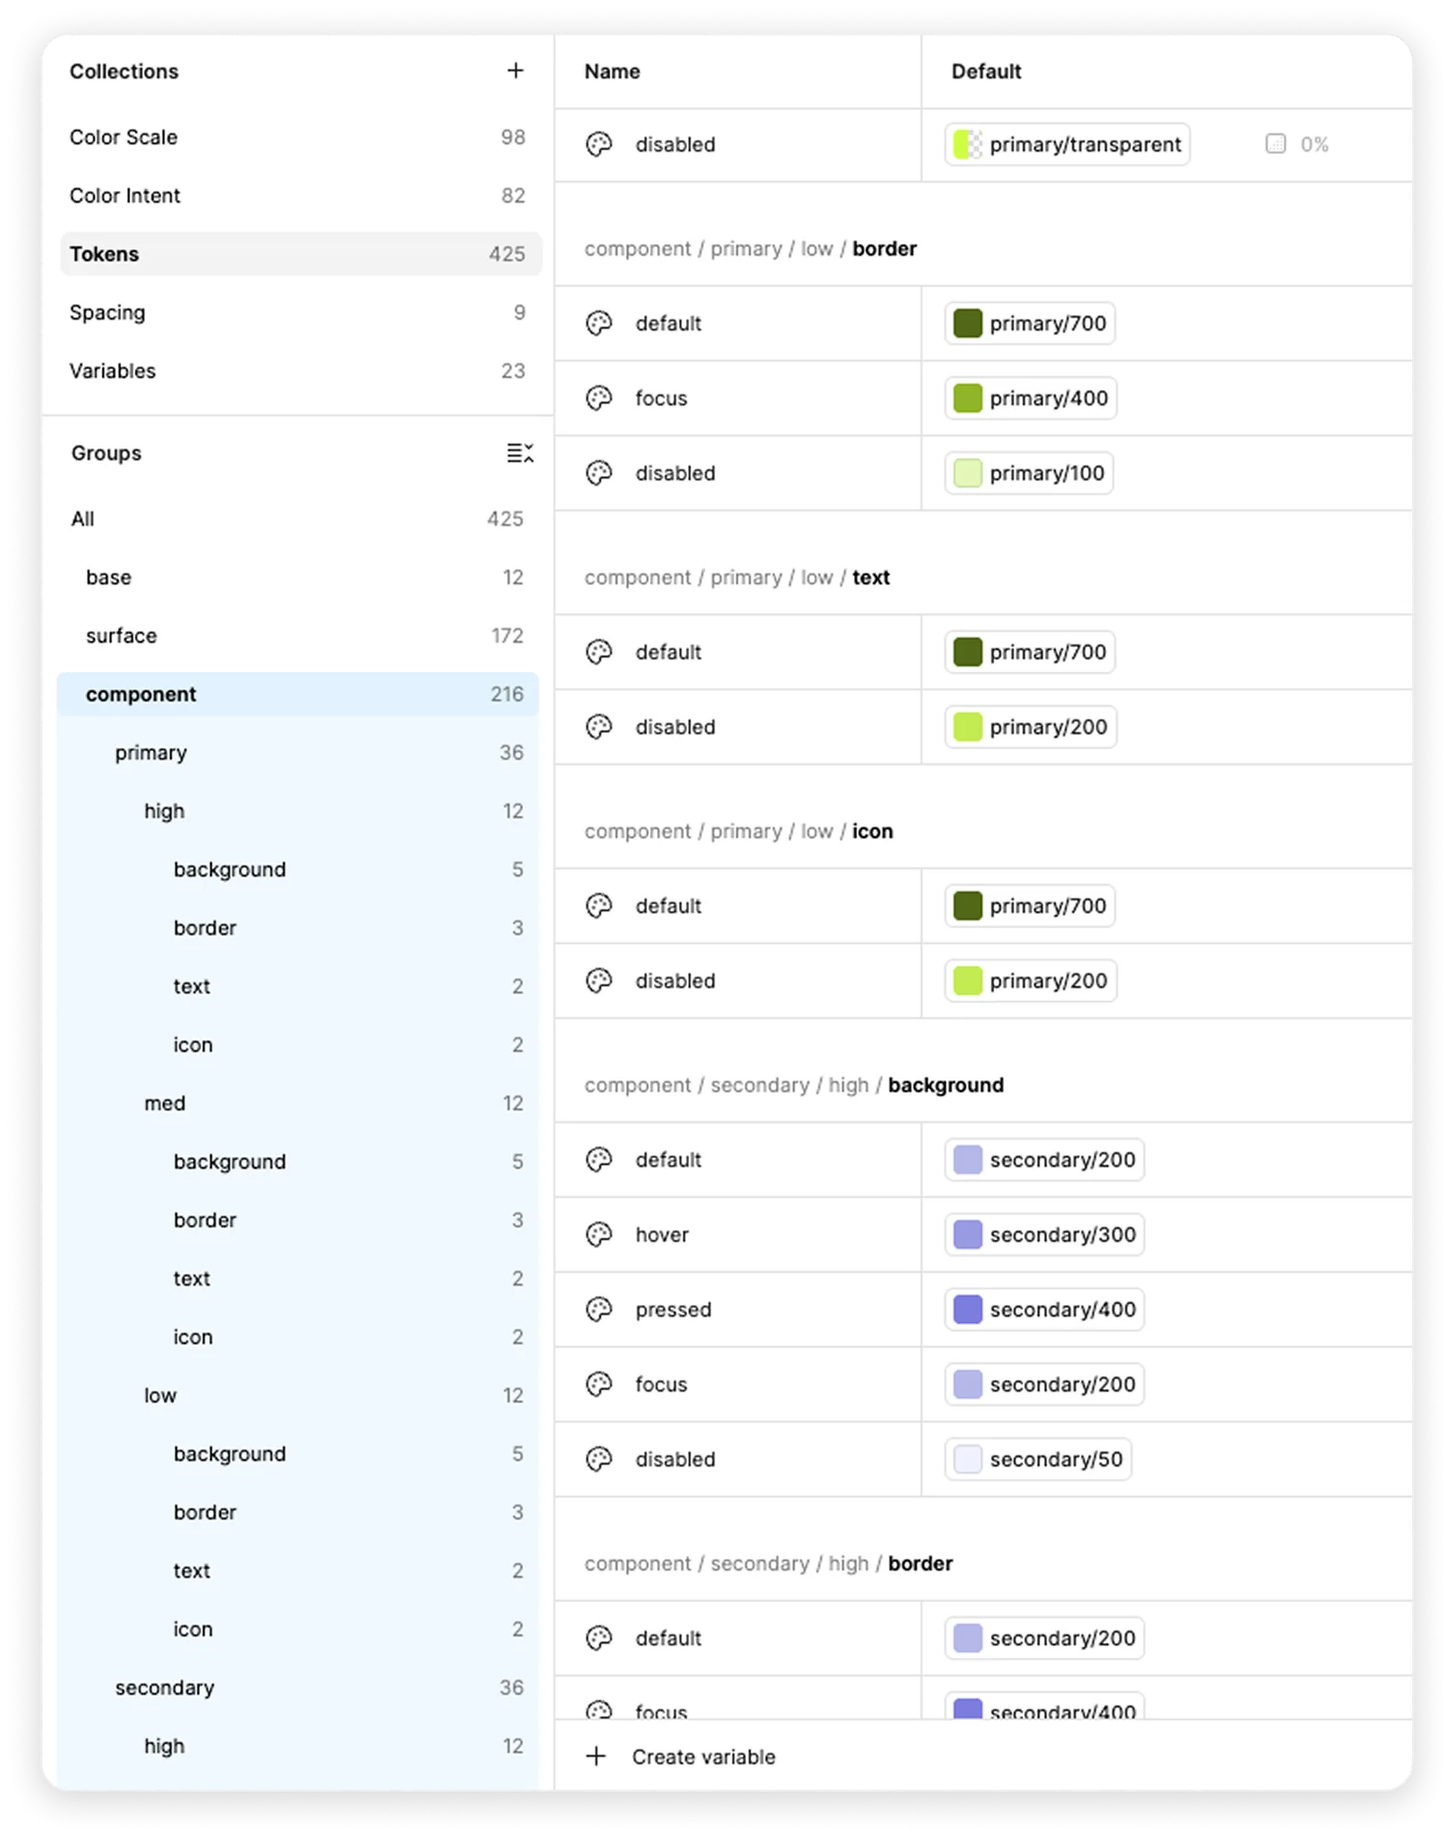
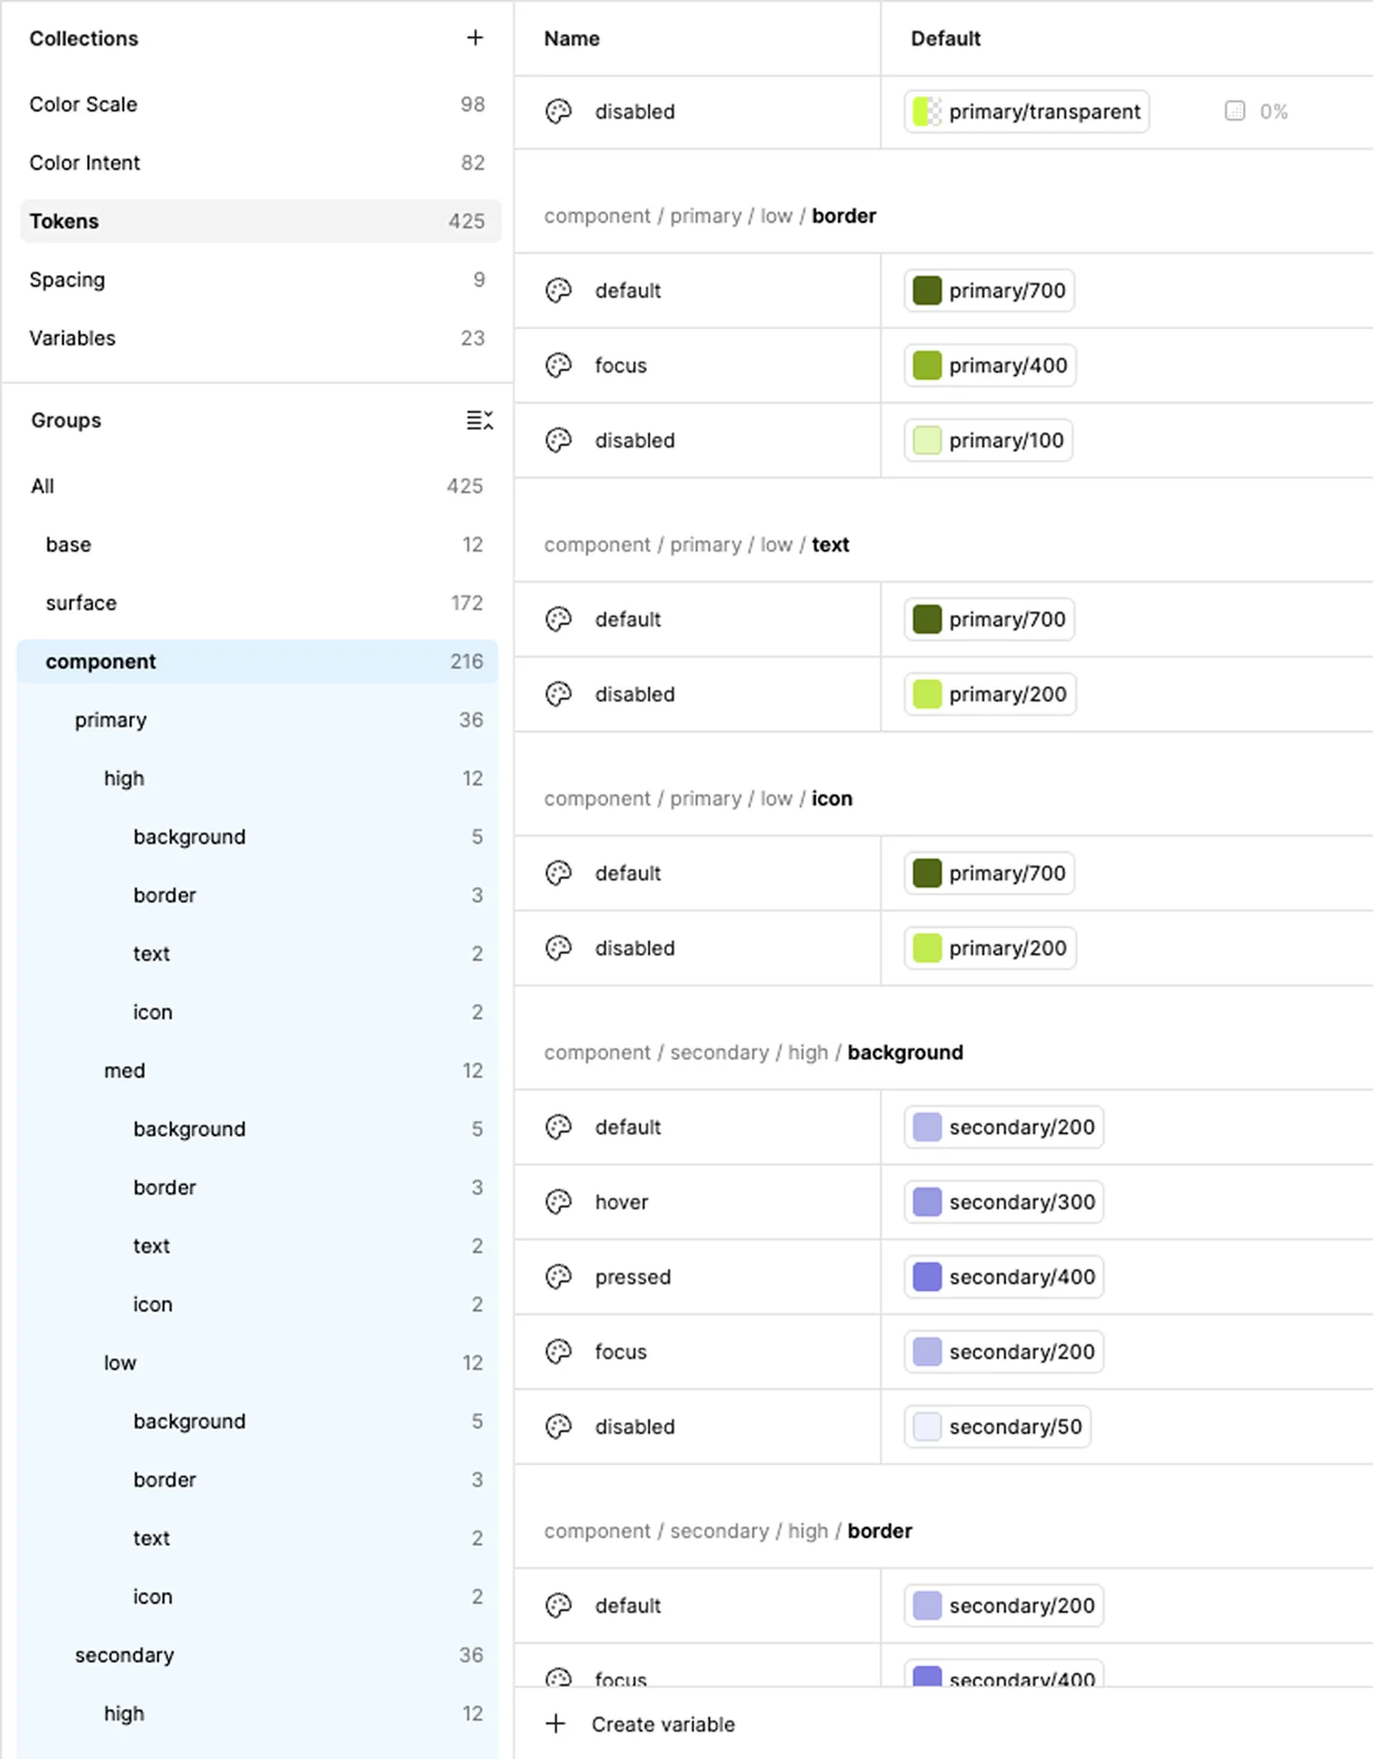
Case studies: zoom cursor, videos open in the overlay, new Guardrail ship image
The cursor chip turns into a magnifier over clickable media. Videos open
in the same overlay as images, uncropped and from the same playhead,
instead of native fullscreen. Guardrail's updated Ship & Collaboration
image is framed again.

diff --git a/case-study.js b/case-study.js
@@ -7,7 +7,130 @@
      hides the OS cursor only on pages that include .cursor-chip). No dot
      canvas here, so X/Y are page coordinates measured from the content's
      top-left, below the 46px nav; Y keeps counting as the page scrolls. */
+  /* Lightbox: images and videos both open here. Videos also land here
+     instead of native fullscreen -- Chromium's fullscreen button is hidden
+     (controlslist), and any other browser's fullscreen request is caught
+     below and redirected. */
+  var overlay = document.createElement('div');
+  overlay.className = 'cs-lightbox';
+  overlay.innerHTML = '<button class="cs-lightbox-close" type="button" aria-label="Close">&times;</button><img class="cs-lightbox-img" alt=""><video class="cs-lightbox-video" controls playsinline controlslist="nofullscreen" disablepictureinpicture></video>';
+  document.body.appendChild(overlay);
+  var lbImg = overlay.querySelector('.cs-lightbox-img');
+  var lbVideo = overlay.querySelector('.cs-lightbox-video');
+  var closeBtn = overlay.querySelector('.cs-lightbox-close');
+  var zoomed = false;
+  var sourceVideo = null;   // the inline video the overlay is playing, if any
+
+  function showOverlay(){
+    overlay.classList.add('is-open');
+    document.body.style.overflow = 'hidden';
+  }
+  function openLightbox(src, alt){
+    overlay.classList.remove('is-video');
+    lbImg.src = src;
+    lbImg.alt = alt || '';
+    zoomed = false;
+    lbImg.classList.remove('is-zoomed');
+    showOverlay();
+  }
+  function openVideo(v){
+    if (overlay.classList.contains('is-open') && sourceVideo === v) return;
+    sourceVideo = v;
+    var t = v.currentTime;
+    v.pause();
+    overlay.classList.add('is-video');
+    lbVideo.src = v.currentSrc || v.src;
+    var start = function(){
+      lbVideo.currentTime = t;
+      var p = lbVideo.play();
+      if (p && p.catch) p.catch(function(){});
+    };
+    if (lbVideo.readyState >= 1) start(); else lbVideo.addEventListener('loadedmetadata', start, {once:true});
+    showOverlay();
+  }
+  function closeLightbox(){
+    overlay.classList.remove('is-open');
+    document.body.style.overflow = '';
+    zoomed = false;
+    lbImg.classList.remove('is-zoomed');
+    if (sourceVideo){
+      // hand the playhead back so the inline video resumes where you left off
+      if (lbVideo.readyState >= 1) sourceVideo.currentTime = lbVideo.currentTime;
+      lbVideo.pause();
+      lbVideo.removeAttribute('src');
+      lbVideo.load();
+      sourceVideo = null;
+    }
+    overlay.classList.remove('is-video');
+  }
+
+  document.querySelectorAll('.cs-asset img').forEach(function(el){
+    el.addEventListener('click', function(){
+      openLightbox(el.currentSrc || el.src, el.alt);
+    });
+  });
+
+  // a click on a video's picture opens the overlay; its control bar still
+  // works inline (native controls report clicks on the video element too)
+  var CONTROL_BAR = 48;
+  var onVideoPicture = function(v, y){ return y < v.getBoundingClientRect().bottom - CONTROL_BAR; };
+  document.querySelectorAll('.cs-asset video').forEach(function(v){
+    v.setAttribute('controlslist', 'nofullscreen');
+    v.setAttribute('disablepictureinpicture', '');
+    v.addEventListener('click', function(e){
+      if (!onVideoPicture(v, e.clientY)) return;
+      e.preventDefault();
+      openVideo(v);
+    });
+    // iOS Safari's own video fullscreen
+    v.addEventListener('webkitbeginfullscreen', function(){
+      if (v.webkitExitFullscreen) v.webkitExitFullscreen();
+      openVideo(v);
+    });
+  });
+  var redirectFullscreen = function(){
+    var el = document.fullscreenElement || document.webkitFullscreenElement;
+    if (!el || el.tagName !== 'VIDEO') return;
+    if (document.exitFullscreen) document.exitFullscreen().catch(function(){});
+    else if (document.webkitExitFullscreen) document.webkitExitFullscreen();
+    if (el !== lbVideo) openVideo(el);
+  };
+  document.addEventListener('fullscreenchange', redirectFullscreen);
+  document.addEventListener('webkitfullscreenchange', redirectFullscreen);
+
+  lbImg.addEventListener('click', function(e){
+    e.stopPropagation();
+    zoomed = !zoomed;
+    lbImg.classList.toggle('is-zoomed', zoomed);
+    setCursorMode(e.target, e.clientY);
+  });
+  overlay.addEventListener('click', function(e){
+    if (e.target === overlay) closeLightbox();
+  });
+  closeBtn.addEventListener('click', closeLightbox);
+  document.addEventListener('keydown', function(e){
+    if (e.key === 'Escape' && overlay.classList.contains('is-open')) closeLightbox();
+  });
+
+  /* The homepage's Figma-style cursor chip (styled in styles.css, which
+     hides the OS cursor only on pages that include .cursor-chip). No dot
+     canvas here, so X/Y are page coordinates measured from the content's
+     top-left, below the 46px nav; Y keeps counting as the page scrolls.
+     Over media it becomes a magnifier (zoom-out on a zoomed lightbox image). */
   var chip = document.getElementById('cursorChip');
+  function setCursorMode(target, y){
+    if (!chip) return;
+    var mode = '';
+    if (target.closest('.cs-lightbox-img')) mode = zoomed ? 'out' : 'in';
+    else {
+      var asset = target.closest('.cs-asset');
+      if (asset){
+        var v = asset.querySelector('video');
+        if (!v || onVideoPicture(v, y)) mode = 'in';
+      }
+    }
+    if (chip.dataset.zoom !== mode) chip.dataset.zoom = mode;
+  }
   if (chip && matchMedia('(hover:hover) and (pointer:fine)').matches){
     var chipX = document.getElementById('cursorX');
     var chipY = document.getElementById('cursorY');
@@ -21,6 +144,7 @@
       if (e.pointerType === 'touch') return;
       lastX = e.clientX; lastY = e.clientY;
       paintChip();
+      setCursorMode(e.target, e.clientY);
       chip.classList.add('is-visible');
     }, {passive:true});
     window.addEventListener('scroll', function(){ if (lastX !== null) paintChip(); }, {passive:true});
@@ -31,48 +155,6 @@
     }, {passive:true});
     window.addEventListener('blur', hideChip);
   }
-
-  var overlay = document.createElement('div');
-  overlay.className = 'cs-lightbox';
-  overlay.innerHTML = '<button class="cs-lightbox-close" type="button" aria-label="Close">&times;</button><img class="cs-lightbox-img" alt="">';
-  document.body.appendChild(overlay);
-  var lbImg = overlay.querySelector('.cs-lightbox-img');
-  var closeBtn = overlay.querySelector('.cs-lightbox-close');
-  var zoomed = false;
-
-  function openLightbox(src, alt){
-    lbImg.src = src;
-    lbImg.alt = alt || '';
-    zoomed = false;
-    lbImg.classList.remove('is-zoomed');
-    overlay.classList.add('is-open');
-    document.body.style.overflow = 'hidden';
-  }
-  function closeLightbox(){
-    overlay.classList.remove('is-open');
-    document.body.style.overflow = '';
-    zoomed = false;
-    lbImg.classList.remove('is-zoomed');
-  }
-
-  document.querySelectorAll('.cs-asset img').forEach(function(el){
-    el.addEventListener('click', function(){
-      openLightbox(el.currentSrc || el.src, el.alt);
-    });
-  });
-
-  lbImg.addEventListener('click', function(e){
-    e.stopPropagation();
-    zoomed = !zoomed;
-    lbImg.classList.toggle('is-zoomed', zoomed);
-  });
-  overlay.addEventListener('click', function(e){
-    if (e.target === overlay) closeLightbox();
-  });
-  closeBtn.addEventListener('click', closeLightbox);
-  document.addEventListener('keydown', function(e){
-    if (e.key === 'Escape' && overlay.classList.contains('is-open')) closeLightbox();
-  });
 
   /* Image switches: a [data-switch] block holds Button Group buttons
      (data-key/data-value) and figures tagged data-when="key=value ...";

diff --git a/case-studies/guardrail-system/index.html b/case-studies/guardrail-system/index.html
@@ -12,12 +12,13 @@
 <link rel="preconnect" href="https://fonts.gstatic.com" crossorigin>
 <link rel="stylesheet" href="https://fonts.googleapis.com/css2?family=Geist:wght@300..700&family=Geist+Mono:wght@400;500;700&family=Geist+Pixel&display=swap">
 <link rel="stylesheet" href="../../styles.css">
-<link rel="stylesheet" href="../../case-study.css?v=55c9a99c">
+<link rel="stylesheet" href="../../case-study.css?v=9255e5ad">
 </head>
 <body>
 
 <div class="cursor-chip" id="cursorChip" aria-hidden="true">
-  <svg viewBox="-1 -1 17 22" width="17" height="22"><path d="M0 0 L0 20 L5.5 15.5 L14.5 15.5 Z"/></svg>
+  <svg class="cursor-arrow" viewBox="-1 -1 17 22" width="17" height="22"><path d="M0 0 L0 20 L5.5 15.5 L14.5 15.5 Z"/></svg>
+  <svg class="cursor-zoom" viewBox="0 0 26 26" width="26" height="26"><line class="cz-handle-edge" x1="14.5" y1="14.5" x2="21" y2="21"/><line class="cz-handle" x1="14.5" y1="14.5" x2="21" y2="21"/><circle class="cz-lens" cx="9" cy="9" r="7.5"/><line class="cz-mark" x1="5.5" y1="9" x2="12.5" y2="9"/><line class="cz-mark cz-plus" x1="9" y1="5.5" x2="9" y2="12.5"/></svg>
   <span class="cursor-coords" id="cursorCoords">
     <span id="cursorX">X: 0</span>
     <span id="cursorY">Y: 0</span>
@@ -290,7 +291,7 @@
   <section class="cs-section" id="ship">
     <div class="cs-section-head"><h2>Ship &amp; Collaboration</h2></div>
     <div class="cs-row">
-      <figure class="cs-figure"><div class="cs-asset is-bare"><img src="Assets/web/06-1.webp" width="1592" height="2014" alt="" loading="lazy"></div><figcaption class="cs-caption">Example of tokens in Figma and in code</figcaption></figure>
+      <figure class="cs-figure"><div class="cs-asset"><img src="Assets/web/06-1.webp" width="1504" height="1926" alt="" loading="lazy"></div><figcaption class="cs-caption">Example of tokens in Figma and in code</figcaption></figure>
       <div class="cs-text">
         <p>Guardrail's front-end developer and I defined the token taxonomy and naming together. A design library and codebase that need a translation layer is where the system comes apart. One vocabulary meant nothing to reconcile later.</p>
         <p>The point wasn’t a cleaner handoff. It was that engineering could stop checking: no single-use tokens to lose, no verifying whether a value was right.</p>
@@ -369,6 +370,6 @@
 </footer>
 
 <script src="../../nav.js"></script>
-<script src="../../case-study.js?v=14482214"></script>
+<script src="../../case-study.js?v=5fc04ec8"></script>
 </body>
 </html>

diff --git a/case-study.css b/case-study.css
@@ -408,6 +408,20 @@
   .cs-footer .cs-foot-link{grid-area:link;justify-self:end}
 }
 
+/* ---------- cursor chip: magnifier over media ---------- */
+/* case-study.js sets data-zoom="in"/"out" on the chip; the arrow swaps for
+   a magnifier in the chip's own colours, lens centred on the pointer */
+.cursor-chip .cursor-zoom{display:none;position:absolute;left:-9px;top:-9px;overflow:visible}
+.cursor-chip[data-zoom="in"] .cursor-arrow,.cursor-chip[data-zoom="out"] .cursor-arrow{display:none}
+.cursor-chip[data-zoom="in"] .cursor-zoom,.cursor-chip[data-zoom="out"] .cursor-zoom{display:block}
+.cursor-chip[data-zoom="out"] .cz-plus{display:none}
+.cursor-chip[data-zoom="in"] .cursor-coords,.cursor-chip[data-zoom="out"] .cursor-coords{left:18px;top:18px}
+.cursor-zoom line,.cursor-zoom circle{fill:none;stroke-linecap:round}
+.cursor-zoom .cz-handle-edge{stroke:#FFFFFF;stroke-width:5.6}
+.cursor-zoom .cz-handle{stroke:var(--tag-blue);stroke-width:3}
+.cursor-zoom .cz-lens{fill:var(--tag-blue);stroke:#FFFFFF;stroke-width:1.6}
+.cursor-zoom .cz-mark{stroke:#FFFFFF;stroke-width:1.8}
+
 /* ---------- lightbox ---------- */
 .cs-lightbox{
   position:fixed;inset:0;background:rgba(0,0,0,.88);
@@ -421,6 +435,10 @@
   cursor:zoom-in;transition:transform .2s ease;
 }
 .cs-lightbox-img.is-zoomed{cursor:zoom-out;transform:scale(1.8)}
+.cs-lightbox-video{display:none;max-width:100%;max-height:100%;background:#000}
+.cs-lightbox.is-video .cs-lightbox-img{display:none}
+.cs-lightbox.is-video .cs-lightbox-video{display:block}
+.cs-asset video{cursor:zoom-in}
 .cs-lightbox-close{
   position:fixed;top:20px;right:24px;
   background:none;border:none;color:#fff;font-size:32px;line-height:1;

diff --git a/case-studies/masking-in-boards/index.html b/case-studies/masking-in-boards/index.html
@@ -12,12 +12,13 @@
 <link rel="preconnect" href="https://fonts.gstatic.com" crossorigin>
 <link rel="stylesheet" href="https://fonts.googleapis.com/css2?family=Geist:wght@300..700&family=Geist+Mono:wght@400;500;700&family=Geist+Pixel&display=swap">
 <link rel="stylesheet" href="../../styles.css">
-<link rel="stylesheet" href="../../case-study.css?v=55c9a99c">
+<link rel="stylesheet" href="../../case-study.css?v=9255e5ad">
 </head>
 <body>
 
 <div class="cursor-chip" id="cursorChip" aria-hidden="true">
-  <svg viewBox="-1 -1 17 22" width="17" height="22"><path d="M0 0 L0 20 L5.5 15.5 L14.5 15.5 Z"/></svg>
+  <svg class="cursor-arrow" viewBox="-1 -1 17 22" width="17" height="22"><path d="M0 0 L0 20 L5.5 15.5 L14.5 15.5 Z"/></svg>
+  <svg class="cursor-zoom" viewBox="0 0 26 26" width="26" height="26"><line class="cz-handle-edge" x1="14.5" y1="14.5" x2="21" y2="21"/><line class="cz-handle" x1="14.5" y1="14.5" x2="21" y2="21"/><circle class="cz-lens" cx="9" cy="9" r="7.5"/><line class="cz-mark" x1="5.5" y1="9" x2="12.5" y2="9"/><line class="cz-mark cz-plus" x1="9" y1="5.5" x2="9" y2="12.5"/></svg>
   <span class="cursor-coords" id="cursorCoords">
     <span id="cursorX">X: 0</span>
     <span id="cursorY">Y: 0</span>
@@ -268,6 +269,6 @@
 </footer>
 
 <script src="../../nav.js"></script>
-<script src="../../case-study.js?v=14482214"></script>
+<script src="../../case-study.js?v=5fc04ec8"></script>
 </body>
 </html>

diff --git a/case-studies/workflow-tutorials/index.html b/case-studies/workflow-tutorials/index.html
@@ -12,12 +12,13 @@
 <link rel="preconnect" href="https://fonts.gstatic.com" crossorigin>
 <link rel="stylesheet" href="https://fonts.googleapis.com/css2?family=Geist:wght@300..700&family=Geist+Mono:wght@400;500;700&family=Geist+Pixel&display=swap">
 <link rel="stylesheet" href="../../styles.css">
-<link rel="stylesheet" href="../../case-study.css?v=55c9a99c">
+<link rel="stylesheet" href="../../case-study.css?v=9255e5ad">
 </head>
 <body>
 
 <div class="cursor-chip" id="cursorChip" aria-hidden="true">
-  <svg viewBox="-1 -1 17 22" width="17" height="22"><path d="M0 0 L0 20 L5.5 15.5 L14.5 15.5 Z"/></svg>
+  <svg class="cursor-arrow" viewBox="-1 -1 17 22" width="17" height="22"><path d="M0 0 L0 20 L5.5 15.5 L14.5 15.5 Z"/></svg>
+  <svg class="cursor-zoom" viewBox="0 0 26 26" width="26" height="26"><line class="cz-handle-edge" x1="14.5" y1="14.5" x2="21" y2="21"/><line class="cz-handle" x1="14.5" y1="14.5" x2="21" y2="21"/><circle class="cz-lens" cx="9" cy="9" r="7.5"/><line class="cz-mark" x1="5.5" y1="9" x2="12.5" y2="9"/><line class="cz-mark cz-plus" x1="9" y1="5.5" x2="9" y2="12.5"/></svg>
   <span class="cursor-coords" id="cursorCoords">
     <span id="cursorX">X: 0</span>
     <span id="cursorY">Y: 0</span>
@@ -301,6 +302,6 @@
 </footer>
 
 <script src="../../nav.js"></script>
-<script src="../../case-study.js?v=14482214"></script>
+<script src="../../case-study.js?v=5fc04ec8"></script>
 </body>
 </html>

diff --git a/DESIGN-SYSTEM.md b/DESIGN-SYSTEM.md
@@ -167,7 +167,7 @@ Each project under `#work` links to `case-studies/<slug>/index.html` (slug match
 - Light/dark and viewport toggles are live: a `[data-switch]` block holds a `.bgroup` (Figma's **Button Group** / **Button Group - Viewport**, Lucide sun/moon/monitor/tablet/smartphone icons) and figures tagged `data-when="mode=dark"` etc.; `case-study.js` shows only the figures whose conditions all match. A carousel (`.cs-carousel`, Figma's **Carousel Arrow** + **Carousel Dot**) is the same mechanism with a `slide` key, so mode and slide combine without extra code. Each state's image and caption come from the alternate-state frames beside the page in Figma.
 - A pull quote is `.cs-quote-box` (Figma's **CS Quote Block**: 1.5px `--select` border, corner handles, 2.34° clockwise tilt) with only the citer's name linked to their LinkedIn, in `--select`, and a small avatar saved under that case study's `Assets/`.
 - List bullets (`.cs-list li::before`) are the Figma **Bullet Point** component: an 8px `--accent` diamond aligned to the first line. Bold lead-ins are `<strong>` at 700, same colour as the text.
-- Every `.cs-asset img` is clickable — `case-study.js` opens it in a full-screen `.cs-lightbox`; clicking the enlarged image toggles a 1.8x zoom, and Escape/backdrop-click/the close button all dismiss it. Videos are unaffected (their native controls already cover this).
+- Every `.cs-asset` image and video opens in the `.cs-lightbox` overlay. Images: clicking the enlarged image toggles a 1.8x zoom. Videos: a click on the picture (not the bottom 48px control bar, which still works inline) opens the full, uncropped video in the overlay from the same playhead, and closing hands the playhead back. Videos never use native fullscreen: `case-study.js` sets `controlslist="nofullscreen"` (hides the button in Chromium) and redirects any other browser's fullscreen request (`fullscreenchange`, `webkitfullscreenchange`, iOS `webkitbeginfullscreen`) into the overlay. Escape, a backdrop click, or the close button dismisses it. With the custom cursor, the chip turns into a magnifier (`data-zoom="in"`, and `"out"` over a zoomed lightbox image) wherever a click would zoom.
 - Source images stay full-size in `Assets/`; pages link web-sized WebP copies in `Assets/web/` (max 2200px wide — retina for the 1098px column — quality 82, alpha kept; Pillow: `Image.open(...)` → `.convert("RGBA" or "RGB")` → `.save(..., "WEBP", quality=82)`, since `sips` can't write WebP). Regenerate the copy whenever a source image changes. Figma stores images downscaled to 4096px, so its image hashes won't match the full-size files — compare aspect ratios, not hashes, when matching Figma assets to local ones.
 - Ends with a rule, then `.cs-more` ("See more work"): two `.cs-card`s (Figma's **Work Card**: thumbnail, title, description, date/role row; hover shows the marquee `.sel-box`) for the *other* two case studies, never the current one. Update this block on every page whenever a case study is added, removed, or retitled. Then `.cs-footer` (Figma's **Footer**, Page=Case Study): name, email and LinkedIn, last-updated date, and "Made with…" — three columns on desktop, stacked on mobile, full page width outside `.cs-shell`.
 - `case-study.css` and `case-study.js` are linked with a `?v=<md5 first 8>` query — GitHub Pages caches for 10 minutes and phones hold stale CSS/JS otherwise. Re-stamp it on all three pages whenever either file changes.
